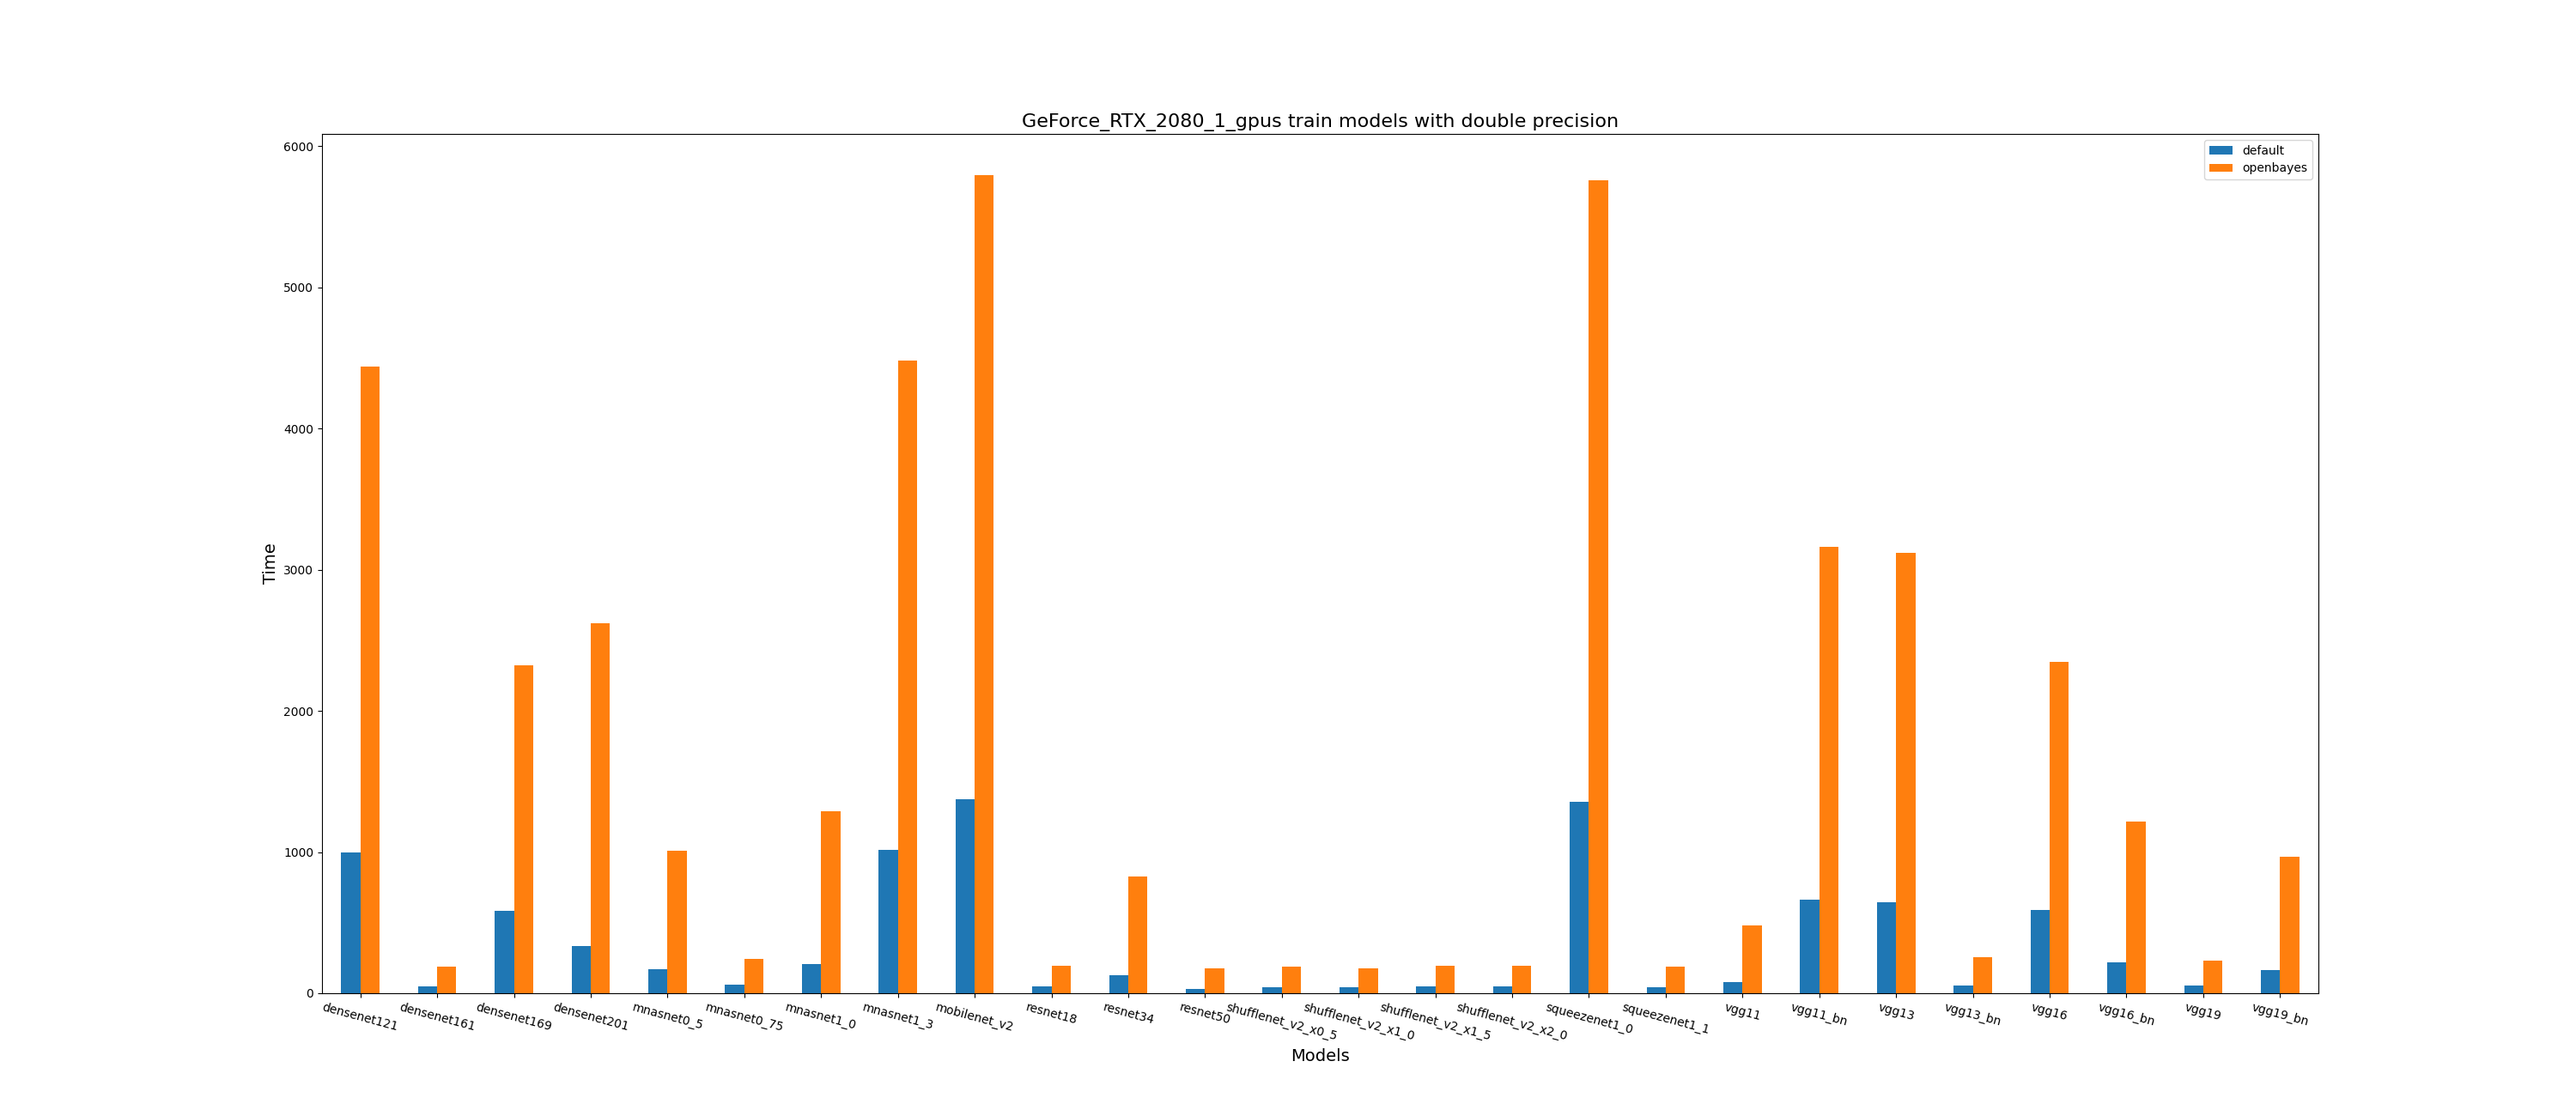
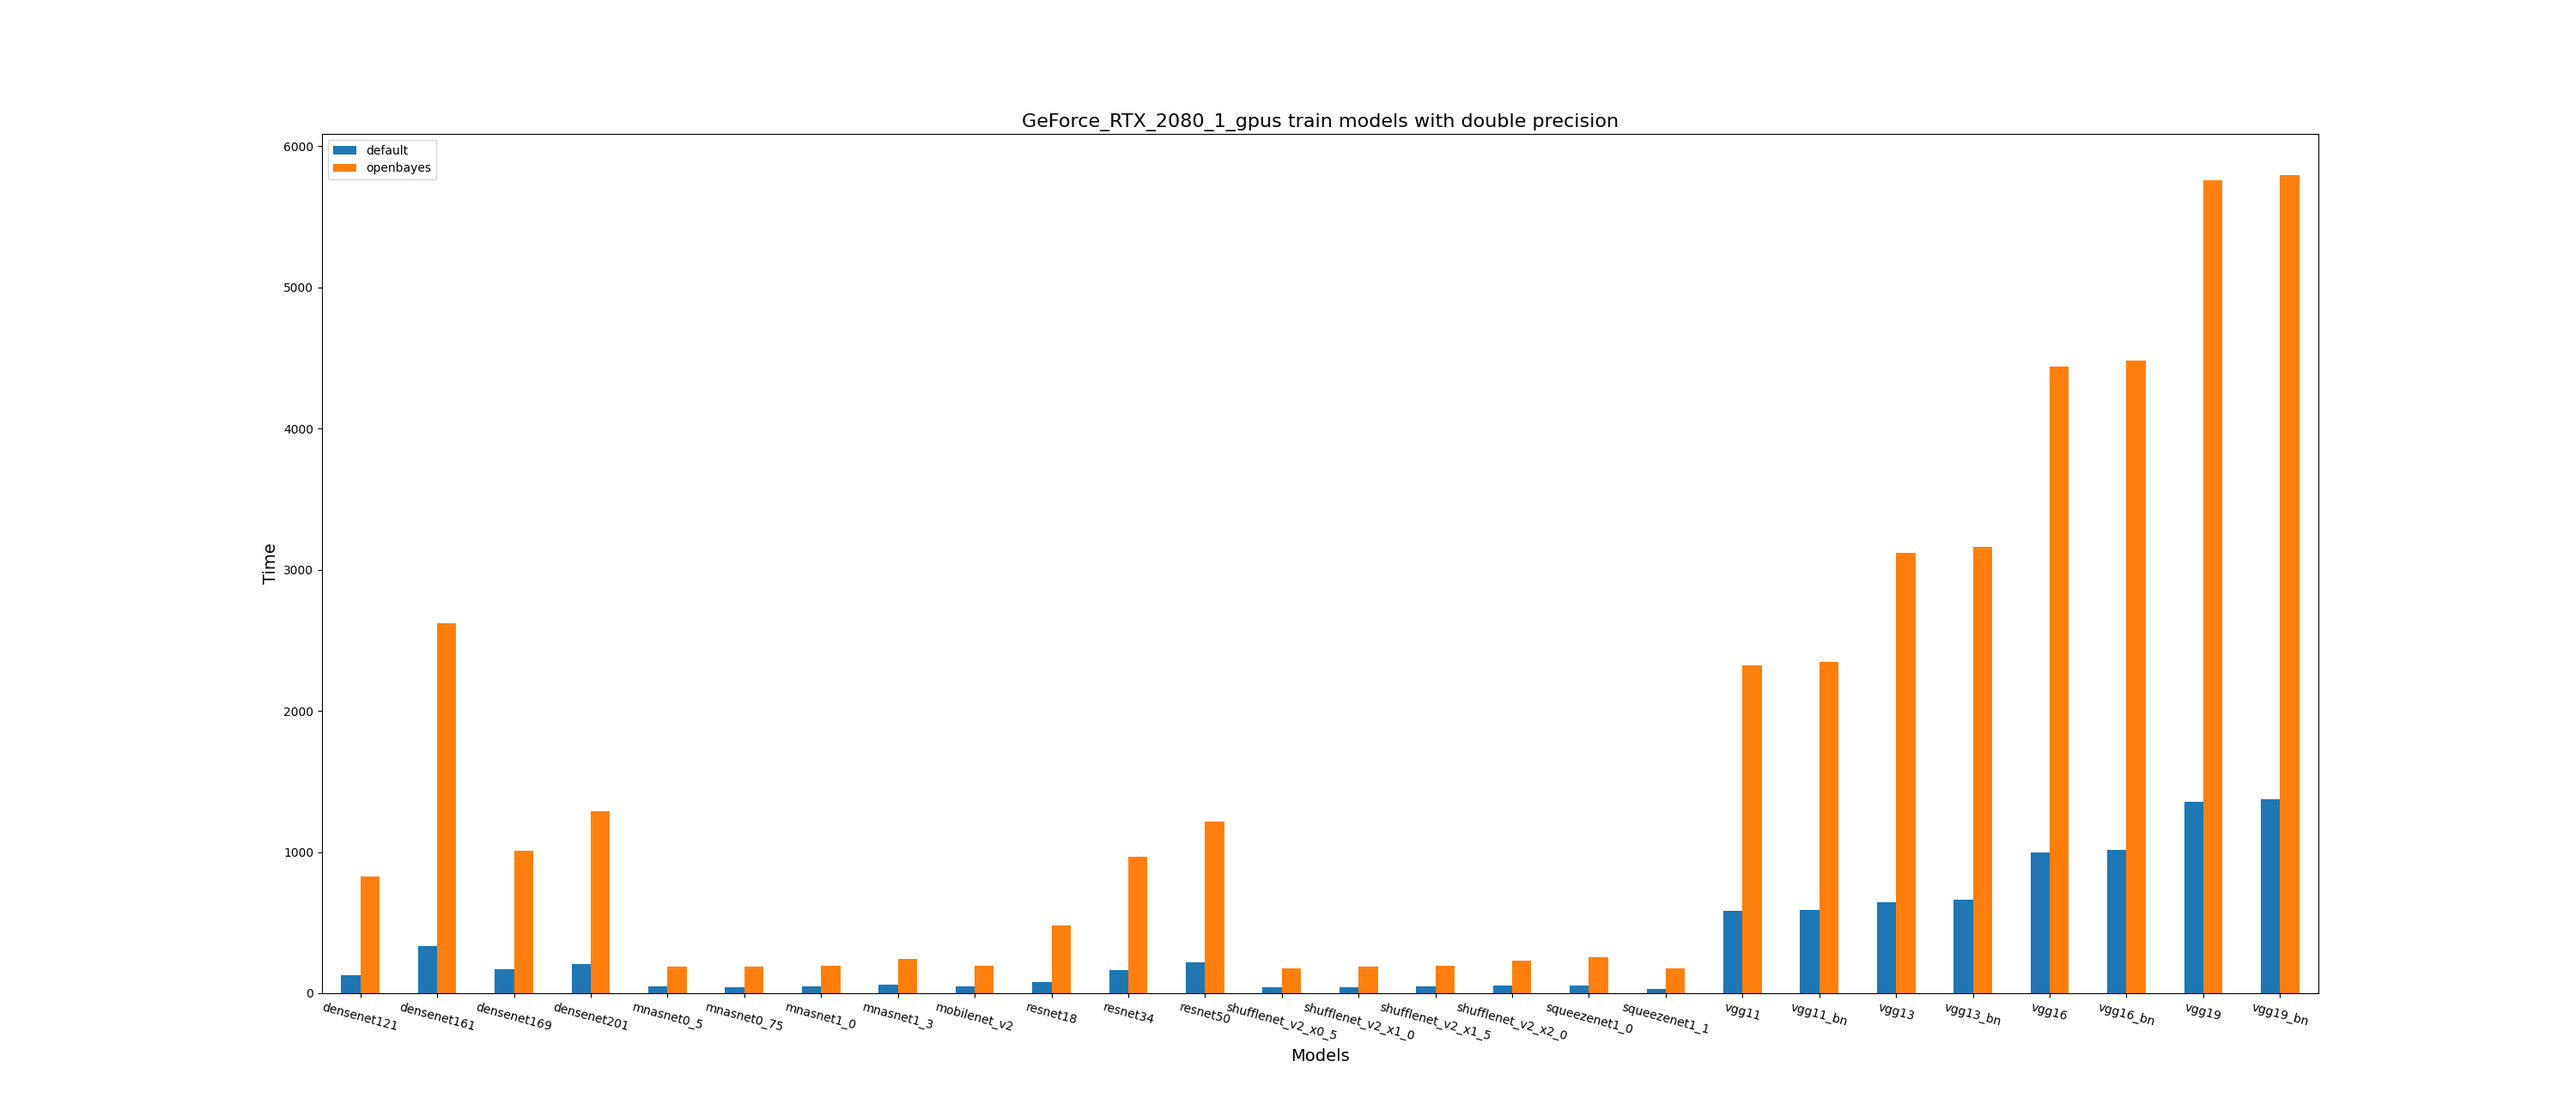
feat(benchmark): sort models and envs whem plot image for benchmark between envs

diff --git a/benchmark_models.py b/benchmark_models.py
@@ -295,7 +295,9 @@ def plot_image_with_models_benchmark_on_special_gpu_between_envs(gpu,phase,preci
         os.makedirs(benchmark_images_save_dir)
     
     df_envs_models_time = big_data_frame[(big_data_frame.gpus==gpu) & (big_data_frame.phases==phase) & (big_data_frame.precisions==precision)]
-    models = list(set(df_envs_models_time['models'].tolist()))
+    df_envs_models_time = df_envs_models_time.sort_values(['envs','models'])
+    
+    models = []
     envs = list(set(df_envs_models_time['envs'].tolist()))
     
     envs_time_dict = {}
@@ -305,6 +307,8 @@ def plot_image_with_models_benchmark_on_special_gpu_between_envs(gpu,phase,preci
             envs_time_dict[rows.envs].append(rows.time)
         else:
             envs_time_dict[rows.envs] = [rows.time]
+        if rows.models not in models:
+            models.append(rows.models)
 
     plotdata = pd.DataFrame(envs_time_dict,index = models)
     plotdata = plotdata.sort_index(axis = 1)
@@ -390,7 +394,7 @@ def statistic_experiment_result(env_name,device_name):
         if os.path.isdir(file_path):
             envs.append(file)
 
-    different_models_on_same_gpu(experiment_result,envs)
+#     different_models_on_same_gpu(experiment_result,envs)
 #     compare_between_gpus(experiment_result,envs)
 
     if len(envs) > 1:
@@ -405,9 +409,9 @@ if __name__ == '__main__':
 
 #     experiment(env_name,device_name)
 
-#     statistic_experiment_result(env_name,device_name)
+    statistic_experiment_result(env_name,device_name)
 
 #     先写个假的，做测试用
-    experiment_result = './experiment_results'
-    env = 'openbayes'
-    compare_between_gpus(experiment_result,env)
+#     experiment_result = './experiment_results'
+#     env = 'openbayes'
+#     compare_between_gpus(experiment_result,env)
